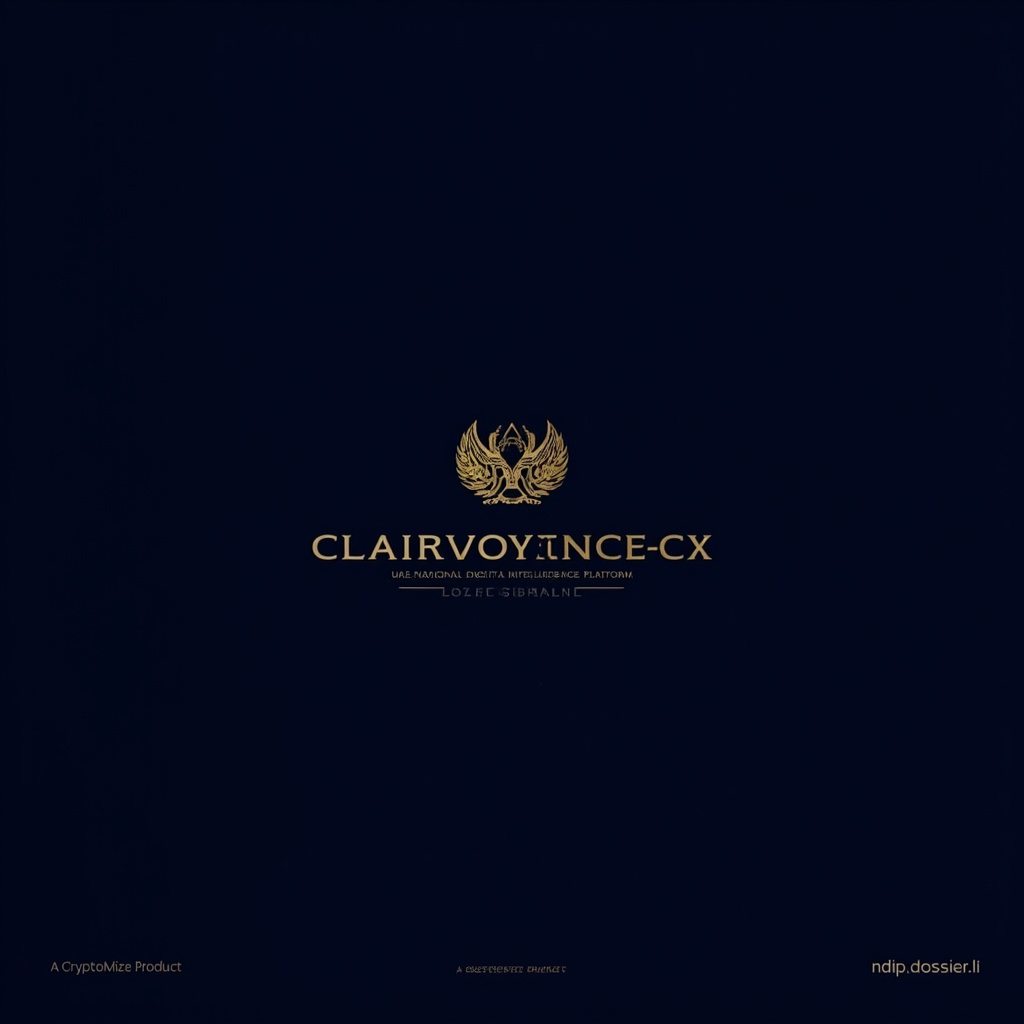
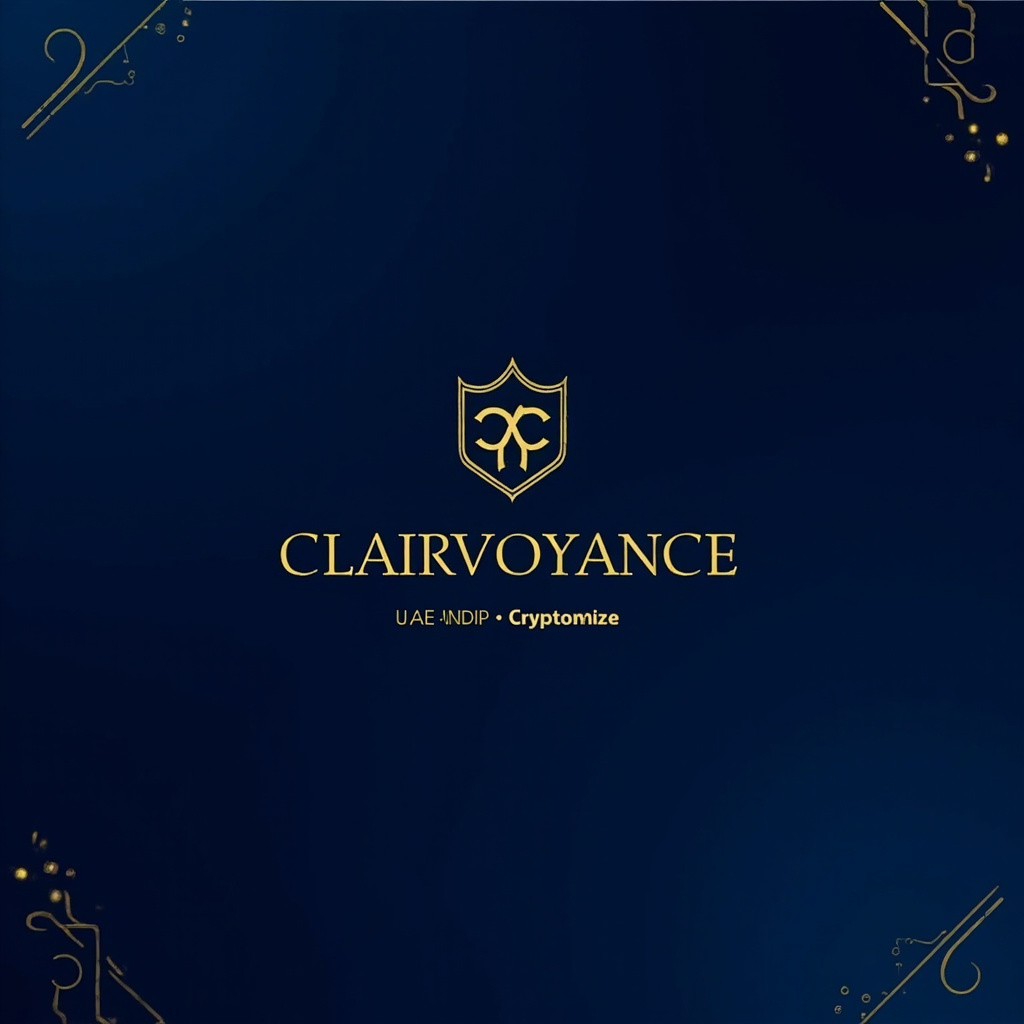
fix: audit findings - sitemap, og-image, import bug
- Create public/sitemap.xml with all 195 dashboard routes
- Regenerate public/og-image.png at correct 1200x630 dimensions
- Fix realestate/page.tsx deferred icon import bug
  (Calendar/BookOpen/Crosshair imports moved to top of file)

diff --git a/src/app/(dashboard)/dashboard/topics/realestate/page.tsx b/src/app/(dashboard)/dashboard/topics/realestate/page.tsx
@@ -39,6 +39,7 @@ import {
   Leaf,
   Train,
 } from 'lucide-react'
+import { Calendar, BookOpen, Crosshair } from 'lucide-react'
 import {
   realEstateData,
   executiveSummary,
@@ -840,6 +841,3 @@ export default function RealEstatePage() {
     </motion.div>
   )
 }
-
-// Import missing icons
-import { Calendar, BookOpen, Crosshair } from 'lucide-react'